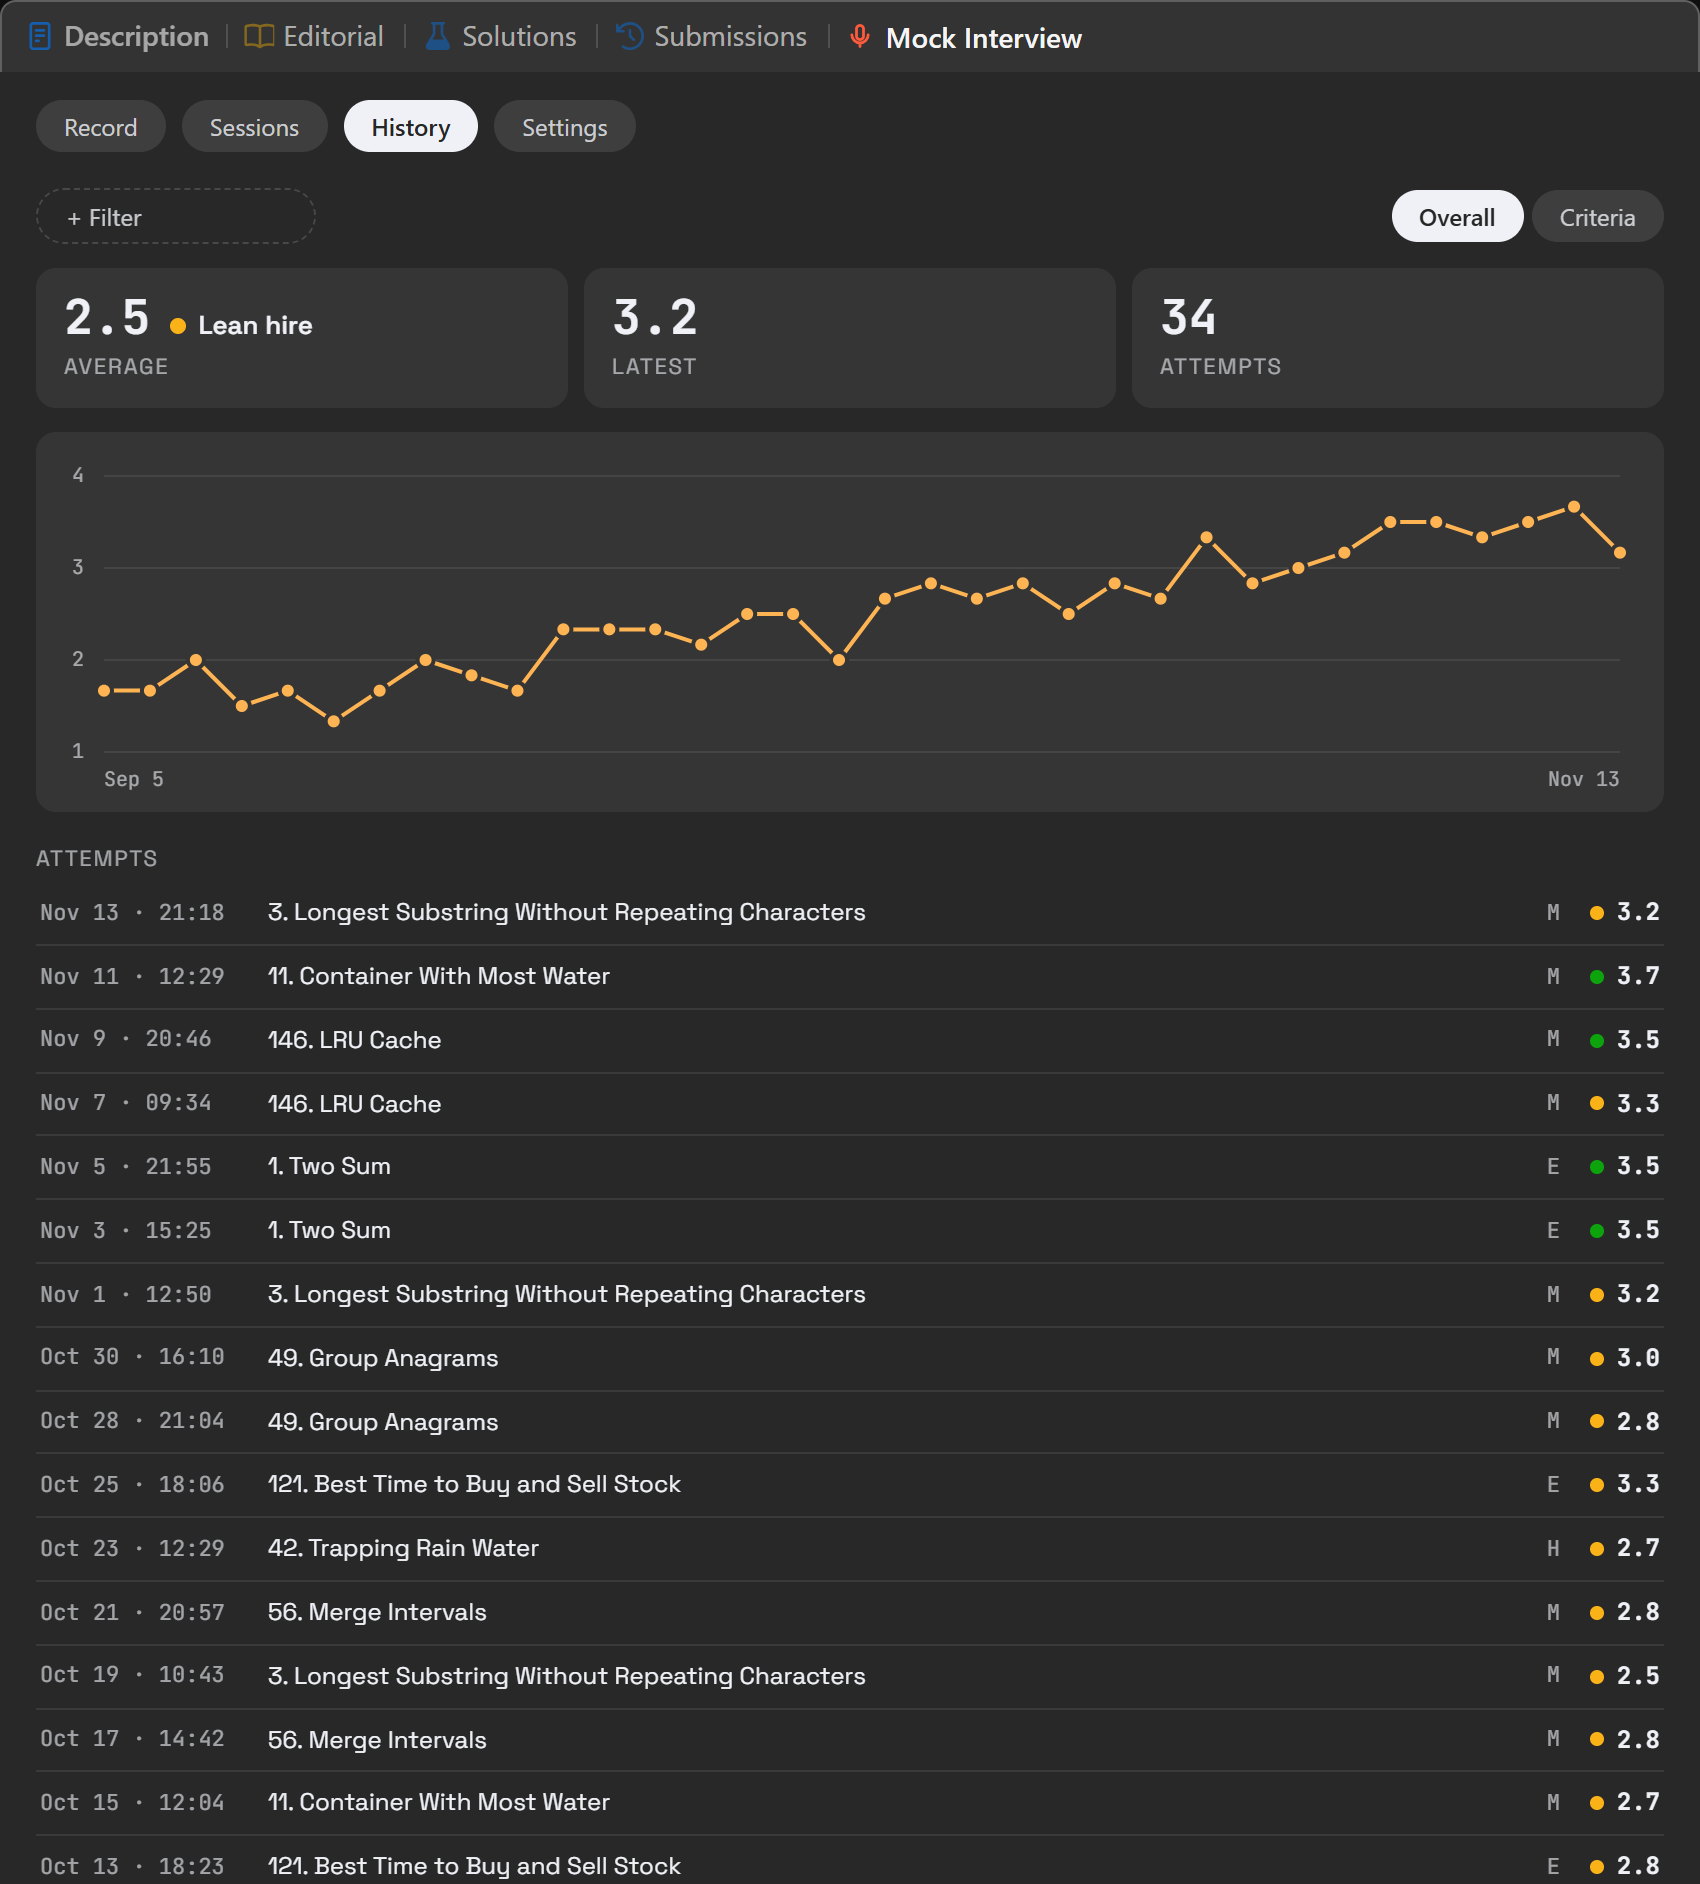
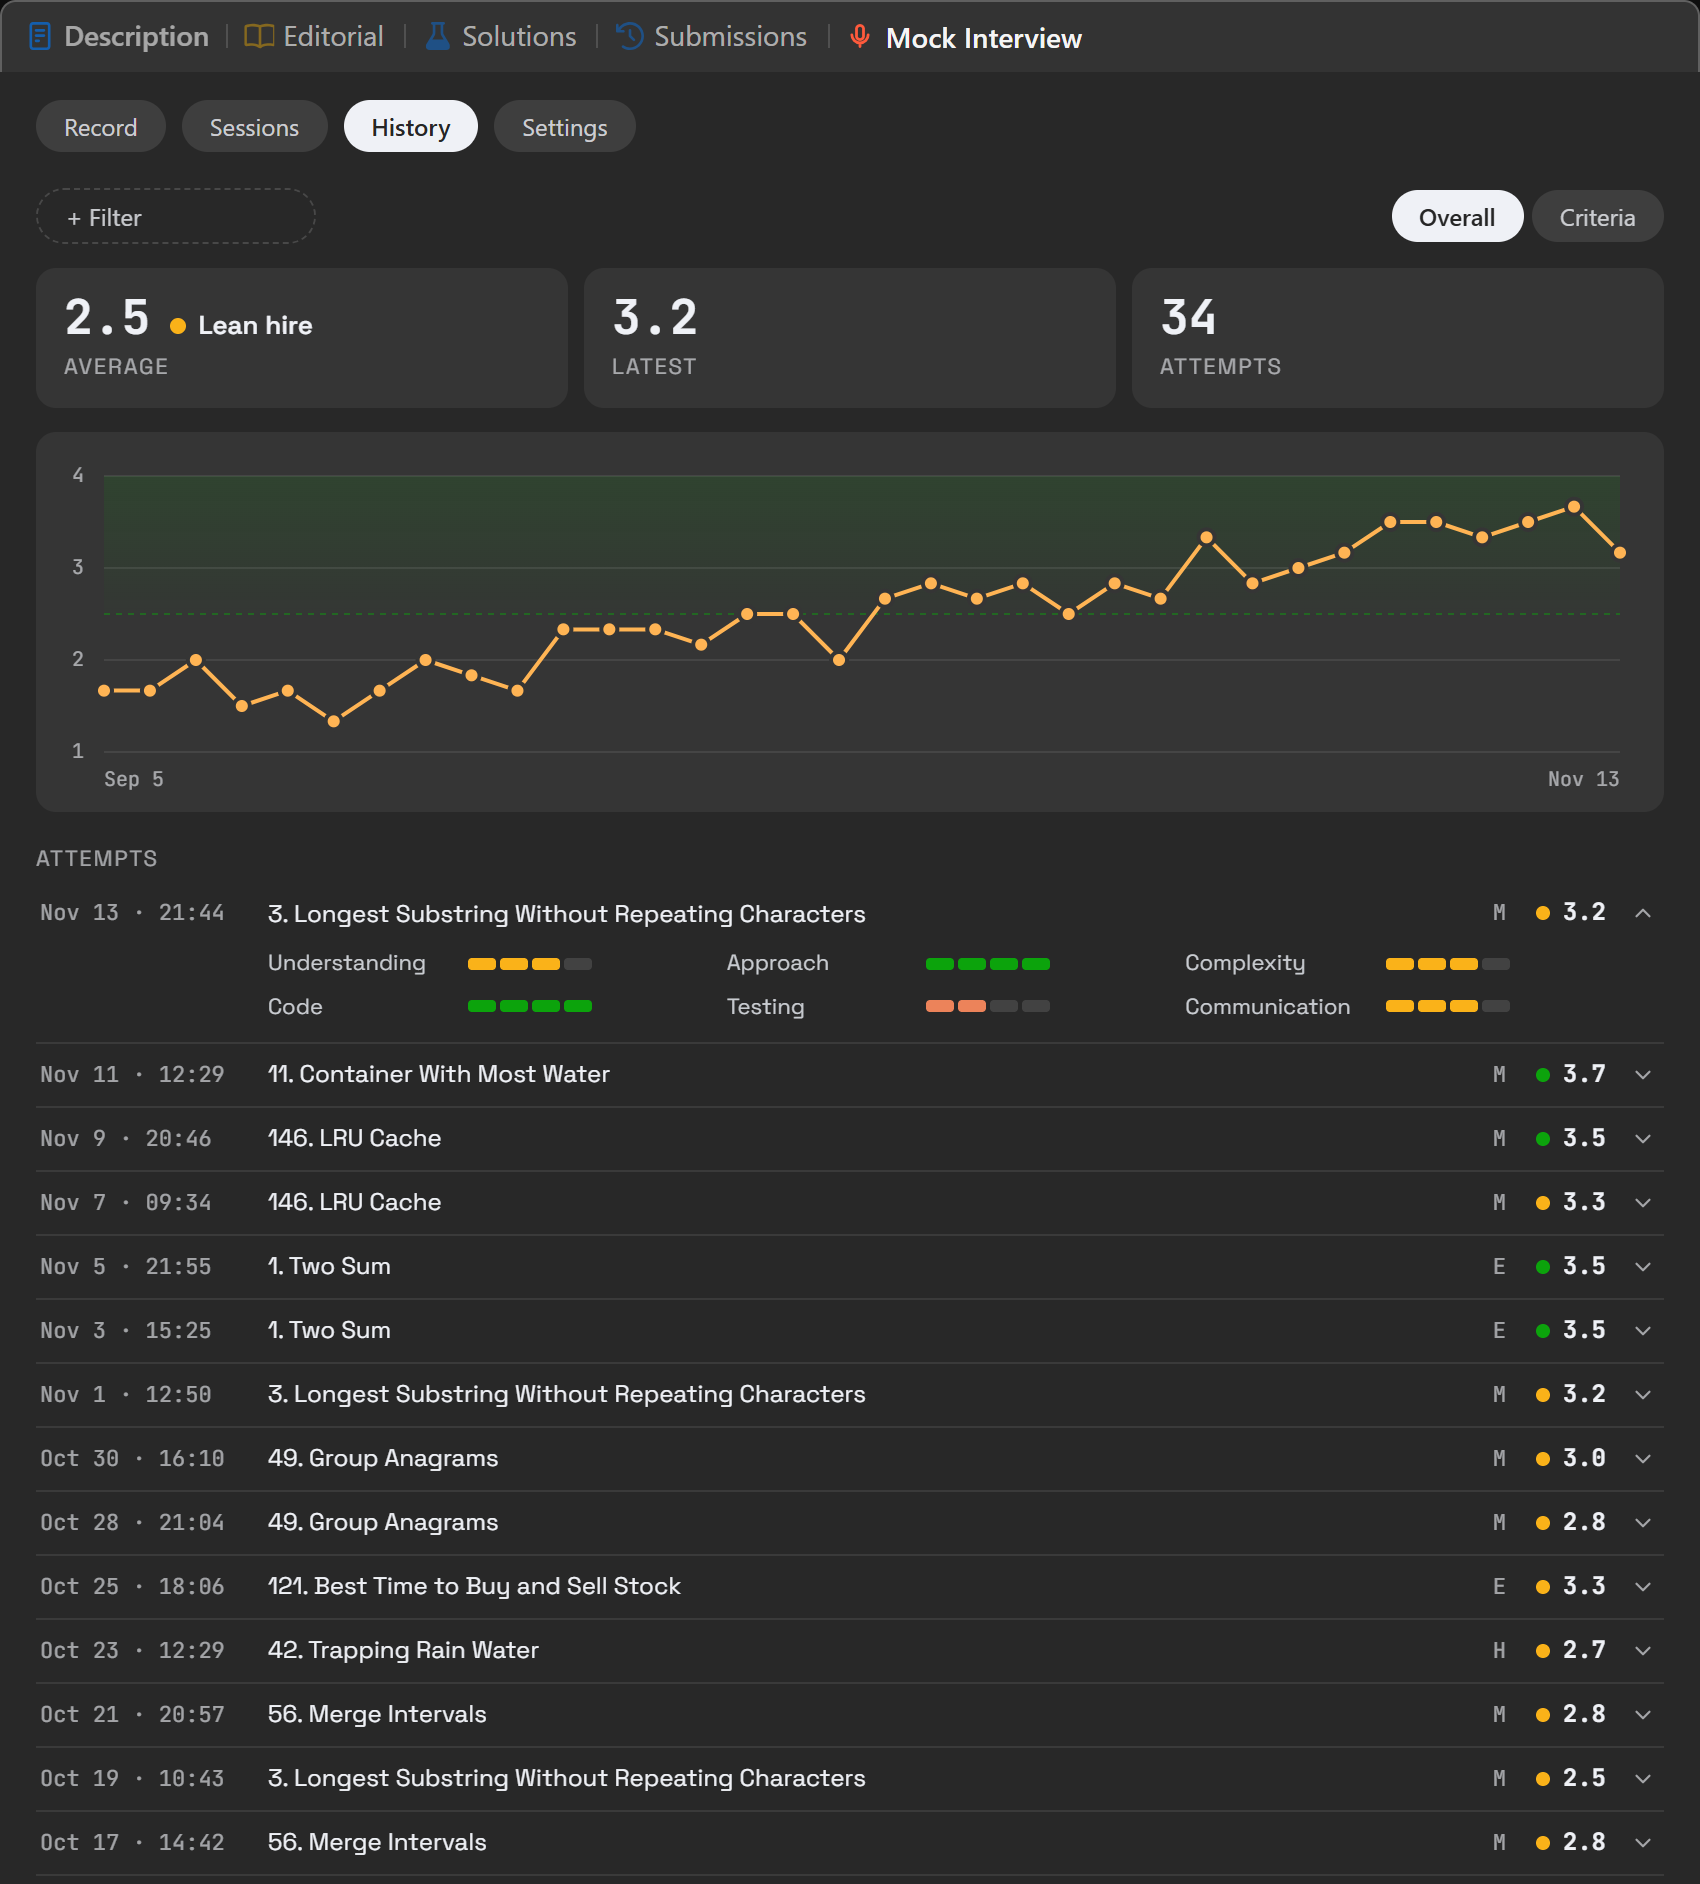
docs(readme): retake screenshots with hire zone and expanded attempt

diff --git a/README.md b/README.md
@@ -18,7 +18,7 @@ I built it because interview prep on your own has no feedback loop. You solve th
 | Sessions | Per-problem list, newest first, with playback, a pause-marked scrubber and silence stats. |
 | Transcribe | Manual, per session. Audio goes to Groq Whisper (`whisper-large-v3`) with a filler-preserving prompt. Fillers are highlighted, pauses shown inline, and nothing is ever stripped. Fix mishearings by hand afterwards; pauses keep their place. |
 | Review | Manual, per session. Transcript, pause data, problem text and your current editor code go to Claude (Sonnet 5.5 by default, switchable to Opus or Haiku). Scored on a fixed six-criterion rubric, 1-4 from Strong no to Strong hire, with a quoted justification and fixes per criterion. Every review is kept so you can compare attempts. |
-| History | Rubric scores over time across every problem. Add filters for difficulty, topic or problem, and switch between the overall score and one small chart per criterion. |
+| History | Rubric scores over time across every problem, with Lean hire and above shaded green. Add filters for difficulty, topic or problem, and switch between the overall score and one small chart per criterion. Click an attempt for its six scores, or its title to open the session; going back leaves the page as you left it. |
 | Settings | Keys, review model and prompt, pause threshold, silence sensitivity, microphone. |
 
 ## Screenshots
@@ -29,7 +29,7 @@ I built it because interview prep on your own has no feedback loop. You solve th
     <td><img src="screenshots/review.png" width="460" alt="Transcript with fillers and pauses marked, beside the rubric review"></td>
   </tr>
   <tr>
-    <td><img src="screenshots/history.png" width="460" alt="History of overall scores across ten weeks of attempts"></td>
+    <td><img src="screenshots/history.png" width="460" alt="History of overall scores across ten weeks, hire zone shaded, newest attempt expanded"></td>
     <td><img src="screenshots/criteria.png" width="460" alt="History split into one chart per criterion, weakest outlined"></td>
   </tr>
   <tr>
